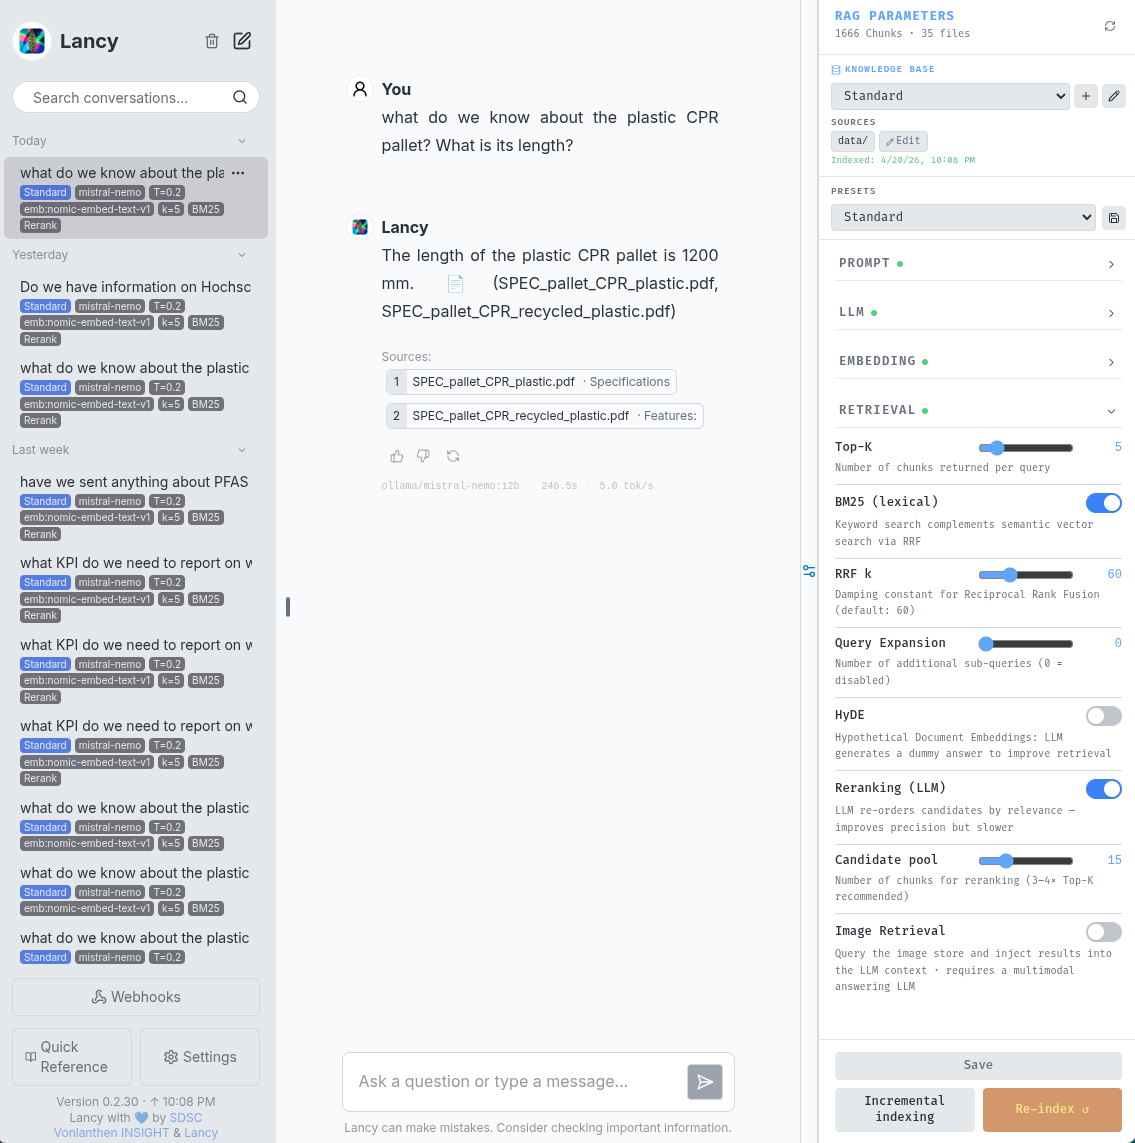
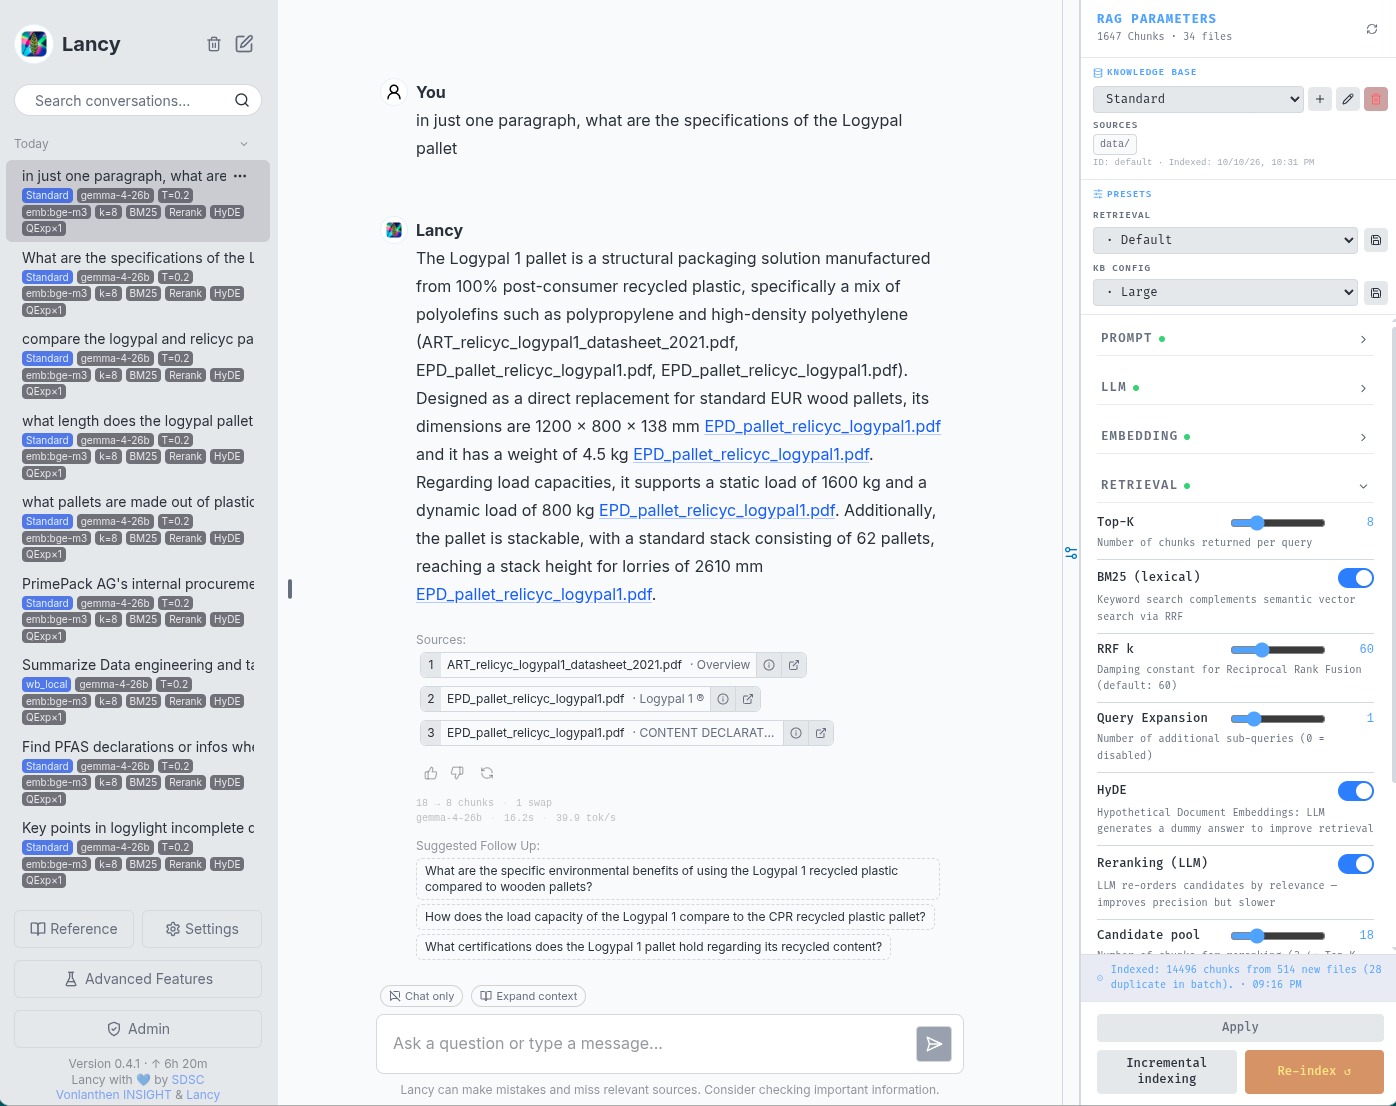
fix(frontend): refresh @types/node lockfile pin to satisfy vite 8 peer range

diff --git a/docs/user-guides/user-guide.md b/docs/user-guides/user-guide.md
@@ -34,9 +34,3 @@ Your presets are private: nobody else sees them, and they do not affect anyone e
 ### If you are not sure what to pick
 
 `Default` is chosen by your administrator as the sensible baseline, and it is what you get without doing anything. The other administrator presets (`·`) trade speed against thoroughness — `Fast` retrieves less, `Quality` and `Multi-Document` retrieve more and do extra work per question. Try one if answers feel too shallow or too slow.
-
----
-
-## Content
-
-Placeholder file
